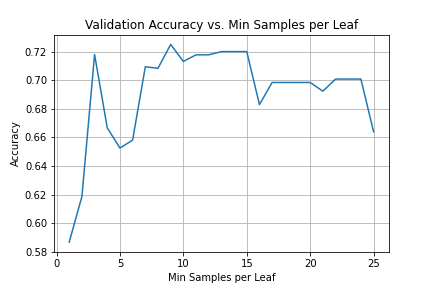
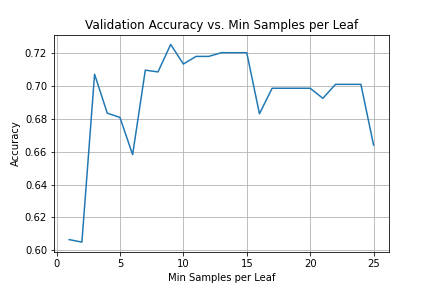
Problem 3 Trials

Changed region(s): [[0.0602, 0.1562, 0.9028, 0.9062]]

diff --git a/p2.py b/p2.py
@@ -2,62 +2,120 @@
 import numpy as np
 import pandas as pd
 from sklearn import tree
-from sklearn.metrics import mean_squared_error, jaccard_score, precision_recall_fscore_support, confusion_matrix, ConfusionMatrixDisplay
+from sklearn.metrics import mean_squared_error, jaccard_score, precision_recall_fscore_support, confusion_matrix, ConfusionMatrixDisplay, accuracy_score
 from sklearn.model_selection import train_test_split
 import matplotlib.pyplot as plt
 # %%
-categoryColumns = ["Sex", "ChestPainType", "RestingECG",
-                   "ExerciseAngina", "ST_Slope"]
-categoryColumnsDict = {i: "category" for i in categoryColumns}
-# (i)
-df = pd.read_csv('./data/heart.csv', dtype=categoryColumnsDict).dropna()
-df[categoryColumns] = df[categoryColumns].apply(
-    lambda col: pd.Categorical(col).codes)
-y_all = df['HeartDisease']
-X_all = df.loc[:, df.columns != 'HeartDisease']
 
-X_train, X_test, y_train, y_test = train_test_split(
-    X_all, y_all, test_size=0.4, random_state=1)
-X_val, X_test, y_val, y_test = train_test_split(
-    X_test, y_test, test_size=0.5, random_state=1)
-# %%
-# Note on accuracy
-# https://developers.google.com/machine-learning/crash-course/classification/accuracy
 
-# Jaracard Score
-# https://scikit-learn.org/stable/modules/generated/sklearn.metrics.jaccard_score.html#sklearn.metrics.jaccard_score
-min_samples = list(range(1, 26))
-accuracy_array = []
-for i in min_samples:
-    clf = tree.DecisionTreeClassifier(min_samples_leaf=i).fit(X_train, y_train)
-    y_val_pred = clf.predict(X_val)
-    accuracy_array.append(jaccard_score(y_val, y_val_pred))
+def p_i():
+    categoryColumns = ["Sex", "ChestPainType", "RestingECG",
+                       "ExerciseAngina", "ST_Slope"]
+    categoryColumnsDict = {i: "category" for i in categoryColumns}
+    # (i)
+    df = pd.read_csv('./data/heart.csv', dtype=categoryColumnsDict).dropna()
+    df[categoryColumns] = df[categoryColumns].apply(
+        lambda col: pd.Categorical(col).codes)
+    y_all = df['HeartDisease']
+    X_all = df.loc[:, df.columns != 'HeartDisease']
 
-fig, ax = plt.subplots()
-ax.plot(min_samples, accuracy_array)
-ax.grid(True)
-ax.set_ylabel("Accuracy")
-ax.set_xlabel("Min Samples per Leaf")
-ax.set_title('Validation Accuracy vs. Min Samples per Leaf')
-plt.savefig('./images/P2_ii_AccuracyvsSamples')
+    X_train, X_test, y_train, y_test = train_test_split(
+        X_all, y_all, test_size=0.4, random_state=1)
+    X_val, X_test, y_val, y_test = train_test_split(
+        X_test, y_test, test_size=0.5, random_state=1)
+    # %%
+    # Note on accuracy
+    # https://developers.google.com/machine-learning/crash-course/classification/accuracy
 
-# %%
+    # Jaracard Score
+    # https://scikit-learn.org/stable/modules/generated/sklearn.metrics.jaccard_score.html#sklearn.metrics.jaccard_score
+    min_samples = list(range(1, 26))
+    accuracy_array = []
+    for i in min_samples:
+        clf = tree.DecisionTreeClassifier(
+            min_samples_leaf=i).fit(X_train, y_train)
+        y_val_pred = clf.predict(X_val)
+        accuracy_array.append(jaccard_score(y_val, y_val_pred))
 
-# (iii)
-bestMinNumberSamples = min_samples[accuracy_array.index(max(accuracy_array))]
-print(bestMinNumberSamples)
-# ~ 9 is the best miniumum number of leaf node observations
+    fig, ax = plt.subplots()
+    ax.plot(min_samples, accuracy_array)
+    ax.grid(True)
+    ax.set_ylabel("Accuracy")
+    ax.set_xlabel("Min Samples per Leaf")
+    ax.set_title('Validation Accuracy vs. Min Samples per Leaf')
+    plt.savefig('./images/P2_ii_AccuracyvsSamples')
 
-clf = tree.DecisionTreeClassifier(
-    min_samples_leaf=bestMinNumberSamples).fit(X_test, y_test)
-y_test_pred = clf.predict(X_test)
-test_accuracy = jaccard_score(y_test, y_test_pred)
-print(test_accuracy)
-# Best accuracy 83%
+    # %%
 
-test_confusion_matrix = confusion_matrix(
-    y_test, y_test_pred, labels=clf.classes_)
-disp = ConfusionMatrixDisplay(
-    confusion_matrix=test_confusion_matrix, display_labels=clf.classes_)
-disp.plot()
-# %%
+    # (iii)
+    bestMinNumberSamples = min_samples[accuracy_array.index(
+        max(accuracy_array))]
+    print(bestMinNumberSamples)
+    # ~ 9 is the best miniumum number of leaf node observations
+
+    clf = tree.DecisionTreeClassifier(
+        min_samples_leaf=bestMinNumberSamples).fit(X_test, y_test)
+    y_test_pred = clf.predict(X_test)
+    test_accuracy = jaccard_score(y_test, y_test_pred)
+    print(test_accuracy)
+    # Best accuracy 83%
+
+    test_confusion_matrix = confusion_matrix(
+        y_test, y_test_pred, labels=clf.classes_)
+    disp = ConfusionMatrixDisplay(
+        confusion_matrix=test_confusion_matrix, display_labels=clf.classes_)
+    disp.plot()
+
+# p_i()
+
+
+def p_iv():
+    categoryColumns = ["Sex", "ChestPainType", "RestingECG",
+                       "ExerciseAngina", "ST_Slope"]
+    categoryColumnsDict = {i: "category" for i in categoryColumns}
+    # (i)
+    df = pd.read_csv('./data/heart.csv', dtype=categoryColumnsDict).dropna()
+    df[categoryColumns] = df[categoryColumns].apply(
+        lambda col: pd.Categorical(col).codes)
+    y_all = df['RestingECG']
+    X_all = df.loc[:, df.columns != 'RestingECG']
+
+    X_train, X_test, y_train, y_test = train_test_split(
+        X_all, y_all, test_size=0.4, random_state=1)
+    X_val, X_test, y_val, y_test = train_test_split(
+        X_test, y_test, test_size=0.5, random_state=1)
+
+    min_samples = list(range(1, 26))
+    accuracy_array = []
+    for i in min_samples:
+        clf = tree.DecisionTreeClassifier(
+            min_samples_leaf=i).fit(X_train, y_train)
+        y_val_pred = clf.predict(X_val)
+        accuracy_array.append(accuracy_score(y_val, y_val_pred))
+
+    fig, ax = plt.subplots()
+    ax.plot(min_samples, accuracy_array)
+    ax.grid(True)
+    ax.set_ylabel("Accuracy")
+    ax.set_xlabel("Min Samples per Leaf")
+    ax.set_title('Validation Accuracy vs. Min Samples per Leaf')
+    plt.savefig('./images/P2_iv_AccuracyvsSamples')
+
+    bestMinNumberSamples = min_samples[accuracy_array.index(
+        max(accuracy_array))]
+    print(bestMinNumberSamples)
+
+    clf = tree.DecisionTreeClassifier(
+        min_samples_leaf=bestMinNumberSamples).fit(X_test, y_test)
+    y_test_pred = clf.predict(X_test)
+    test_accuracy = accuracy_score(y_test, y_test_pred)
+    print(test_accuracy)
+
+    test_confusion_matrix = confusion_matrix(
+        y_test, y_test_pred, labels=clf.classes_)
+    disp = ConfusionMatrixDisplay(
+        confusion_matrix=test_confusion_matrix, display_labels=clf.classes_)
+    disp.plot()
+
+
+p_iv()

diff --git a/p3.py b/p3.py
@@ -1,0 +1,127 @@
+# %%
+import tensorflow as tf
+import pandas as pd
+from sklearn.model_selection import train_test_split
+import numpy as np
+import matplotlib.pyplot as plt
+# %%
+
+
+categoryColumns = ["Sex", "ChestPainType", "RestingECG",
+                   "ExerciseAngina", "ST_Slope"]
+categoryColumnsDict = {i: "category" for i in categoryColumns}
+# (i)
+df = pd.read_csv('./data/heart.csv', dtype=categoryColumnsDict).dropna()
+df[categoryColumns] = df[categoryColumns].apply(
+    lambda col: pd.Categorical(col).codes)
+
+
+y_all = df['HeartDisease']
+X_all = df.loc[:, df.columns != 'HeartDisease']
+
+X_train, X_test, y_train, y_test = train_test_split(
+    X_all, y_all, test_size=0.4, random_state=1)
+X_val, X_test, y_val, y_test = train_test_split(
+    X_test, y_test, test_size=0.5, random_state=1)
+
+# %%
+
+
+def p_i():
+    model = tf.keras.models.Sequential()
+    model.add(tf.keras.layers.Dense(11, activation='relu'))
+    model.add(tf.keras.layers.Dense(5, activation='relu'))
+    model.add(tf.keras.layers.Dense(5, activation='relu'))
+    model.add(tf.keras.layers.Dense(5, activation='relu'))
+    model.add(tf.keras.layers.Dense(5, activation='relu'))
+    model.add(tf.keras.layers.Dense(5, activation='relu'))
+    model.add(tf.keras.layers.Dense(5, activation='relu'))
+    model.add(tf.keras.layers.Dense(5, activation='relu'))
+    model.add(tf.keras.layers.Dense(1))
+
+    model.compile(
+        # optimizer=tf.keras.optimizers.SGD(learning_rate=0.3),
+        optimizer=tf.keras.optimizers.Adam(learning_rate=0.001),
+        loss=tf.keras.losses.BinaryCrossentropy(from_logits=True),
+        metrics=[tf.keras.metrics.BinaryAccuracy()],
+    )
+
+    # %%
+    history = model.fit(
+        X_train,
+        y_train,
+        epochs=100,
+        validation_data=(X_val, y_val)
+    )
+
+    fig, (ax1, ax2) = plt.subplots(2, sharex=True, constrained_layout=True)
+    # training accuracy
+    ax1.plot(history.history["binary_accuracy"])
+    ax1.grid(True)
+    ax1.set_title("Training Accuracy")
+
+    # testing accuracy
+    ax2.set_title("Validation Accuracy")
+    ax2.plot(history.history["val_binary_accuracy"])
+    ax2.set_xlabel("Epoch")
+    ax2.grid(True)
+
+    plt.savefig('./images/P3_i_AccuracyvsEpoch.png')
+
+
+# p_i()
+# %%
+
+
+def p_ii():
+    y_all = df['RestingECG']
+    X_all = df.loc[:, df.columns != 'RestingECG']
+
+    X_train, X_test, y_train, y_test = train_test_split(
+        X_all, y_all, test_size=0.4, random_state=1)
+    X_val, X_test, y_val, y_test = train_test_split(
+        X_test, y_test, test_size=0.5, random_state=1)
+    model = tf.keras.models.Sequential()
+    model.add(tf.keras.layers.Dense(
+        11, activation='relu', kernel_initializer='normal'))
+    model.add(tf.keras.layers.Dense(
+        64, activation='relu', kernel_initializer='normal'))
+    model.add(tf.keras.layers.Dense(
+        120, activation='relu', kernel_initializer='normal'))
+    model.add(tf.keras.layers.Dense(
+        64, activation='relu', kernel_initializer='normal'))
+    model.add(tf.keras.layers.Dense(
+        8, activation='relu', kernel_initializer='normal'))
+    model.add(tf.keras.layers.Dense(3))
+
+    model.compile(
+        optimizer=tf.keras.optimizers.Adam(learning_rate=0.3),
+        loss=tf.keras.losses.SparseCategoricalCrossentropy(from_logits=True),
+        metrics=[tf.keras.metrics.SparseCategoricalAccuracy()],
+    )
+
+    # %%
+    history = model.fit(
+        X_train,
+        y_train,
+        epochs=30,
+        validation_data=(X_val, y_val)
+    )
+    print(model.predict(X_val))
+
+    fig, (ax1, ax2) = plt.subplots(2, sharex=True, constrained_layout=True)
+    # training accuracy
+    ax1.plot(history.history["sparse_categorical_accuracy"])
+    ax1.grid(True)
+    ax1.set_title("Training Accuracy")
+
+    # testing accuracy
+    ax2.set_title("Validation Accuracy")
+    ax2.plot(history.history["val_sparse_categorical_accuracy"])
+    ax2.set_xlabel("Epoch")
+    ax2.grid(True)
+
+    plt.savefig('./images/P3_ii_AccuracyvsEpoch.png')
+
+
+p_ii()

diff --git a/p1.py b/p1.py
@@ -20,6 +20,7 @@ X_train, X_test, y_train, y_test = train_test_split(
     X_all, y_all, test_size=0.4, random_state=1)
 X_val, X_test, y_val, y_test = train_test_split(
     X_test, y_test, test_size=0.5, random_state=1)
+
 # %%
 # (ii)
 min_samples = list(range(1, 26))
